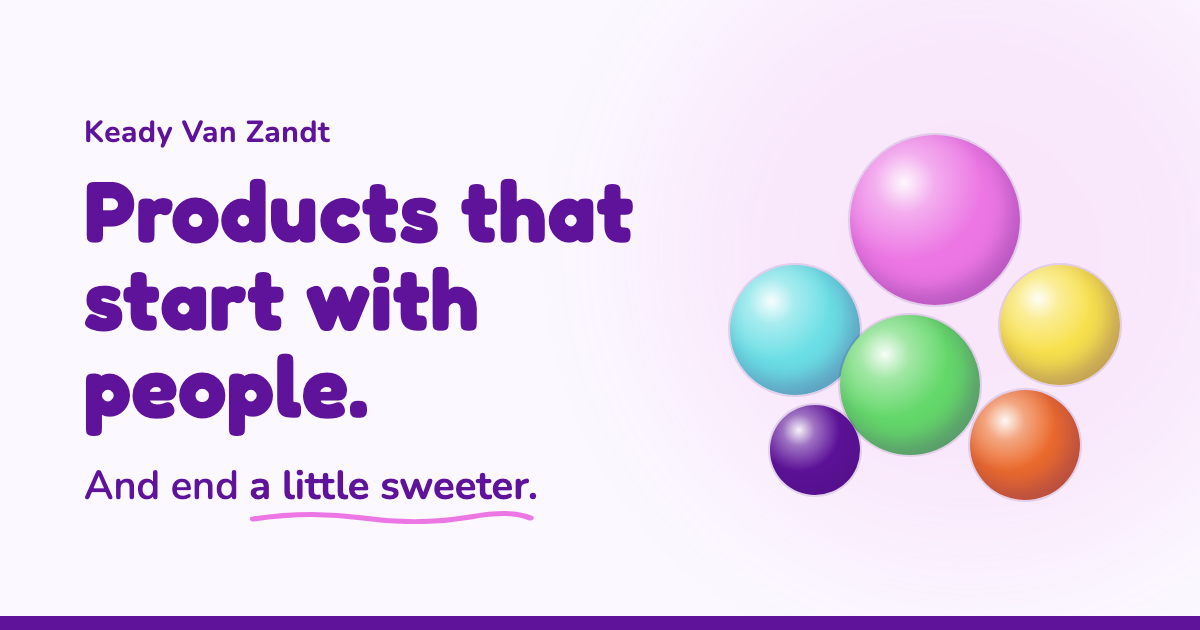
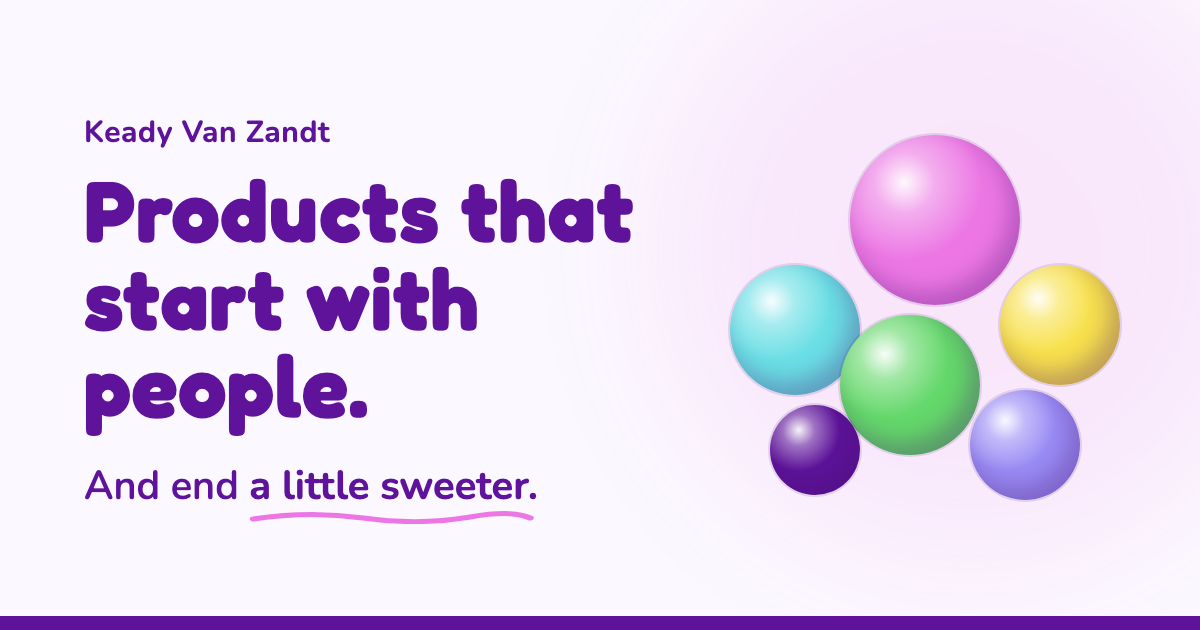
Replace orange with periwinkle
Product category, machine gumballs, contact photo ring and share
image now use periwinkle (#9A8CF5) instead of tangerine.

Changed region(s): [[0.8017, 0.6032, 0.925, 0.8143]]

diff --git a/index.html b/index.html
@@ -78,7 +78,7 @@
         <h1 id="hero-title" data-split>Hi, I'm Keady.</h1>
         <p class="tagline" data-reveal style="--d: 550ms">Products that start with people.<br>And end <em>a little sweeter.</em></p>
         <ul class="roles" data-reveal style="--d: 700ms" aria-label="What I do">
-          <li data-color="tangerine">Product</li>
+          <li data-color="periwinkle">Product</li>
           <li data-color="spring-green">UX research</li>
           <li data-color="orchid">Project management</li>
           <li data-color="lemon">Customer success</li>
@@ -137,7 +137,7 @@
       <!-- data-filter must match the words in each card's data-flavors -->
       <div class="chips" id="flavor-chips" role="group" aria-labelledby="flavor-label">
         <button class="chip" type="button" data-filter="all" aria-pressed="true">All</button>
-        <button class="chip" type="button" data-filter="product" data-color="tangerine" aria-pressed="false">Product</button>
+        <button class="chip" type="button" data-filter="product" data-color="periwinkle" aria-pressed="false">Product</button>
         <button class="chip" type="button" data-filter="design" data-color="aqua" aria-pressed="false">UX Design</button>
         <button class="chip" type="button" data-filter="research" data-color="spring-green" aria-pressed="false">UX Research</button>
         <button class="chip" type="button" data-filter="pm" data-color="orchid" aria-pressed="false">Project Mgmt</button>
@@ -154,7 +154,7 @@
           <!--
             CARD TEMPLATE
             data-color   = the gumball color of the card's PRIMARY category:
-                           product = tangerine, design = aqua, research = spring-green,
+                           product = periwinkle, design = aqua, research = spring-green,
                            pm = orchid, cs (customer success) = lemon
             data-flavors = every filter that shows this card, primary first, separated by spaces
             .card-tags   = the same categories as visible labels (one <li> per category)
@@ -177,14 +177,14 @@
             <a class="card-link" href="case-partner-platform.html" data-bubble>Read case study<span class="sr-only">: Partner Platform Rollout</span> <span class="arrow" aria-hidden="true">→</span></a>
           </article>
 
-          <article class="card" data-color="tangerine" data-flavors="product">
+          <article class="card" data-color="periwinkle" data-flavors="product">
             <div class="card-head">
               <span class="card-ball" aria-hidden="true"></span>
               <div>
                 <h3 class="card-title">CRM to Power BI Pipeline</h3>
                 <p class="card-year">2026 <span class="status-badge" data-status="draft">In progress</span></p>
                 <ul class="card-tags" aria-label="Categories">
-                  <li data-color="tangerine">Product</li>
+                  <li data-color="periwinkle">Product</li>
                 </ul>
               </div>
             </div>

diff --git a/css/styles.css b/css/styles.css
@@ -27,7 +27,7 @@
   --lemon:          #F8E14D;   /* gumball accent (decorative only) */
   --aqua:           #6BDFE5;   /* gumball accent (decorative only) */
   --spring-green:   #64D86A;   /* gumball accent (decorative only) */
-  --tangerine:      #EC6B2D;   /* gumball accent (decorative only) */
+  --periwinkle:     #9A8CF5;   /* gumball accent (decorative only) */
   --lavender-white: #FBF8FF;   /* page background */
   --lilac:          #F1E7FA;   /* cards and tag pills */
   --white:          #FFFFFF;   /* button text, gloss highlights, coin slot */
@@ -53,7 +53,7 @@
   --glass: var(--white);
 
   /* Project categories: each gets its own gumball color */
-  --cat-product: var(--tangerine);
+  --cat-product: var(--periwinkle);
   --cat-design: var(--aqua);
   --cat-research: var(--spring-green);
   --cat-pm: var(--orchid);
@@ -85,7 +85,7 @@
 [data-color="lemon"]        { --flavor: var(--lemon); }
 [data-color="aqua"]         { --flavor: var(--aqua); }
 [data-color="spring-green"] { --flavor: var(--spring-green); }
-[data-color="tangerine"]    { --flavor: var(--tangerine); }
+[data-color="periwinkle"]   { --flavor: var(--periwinkle); }
 
 
 /* ---------- Reusable gumball ----------
@@ -920,8 +920,8 @@ input, select, textarea { font-family: var(--font-body); font-size: 1rem; }
   position: absolute;
   inset: -14px;
   border-radius: 50%;
-  /* Two accents for this section: tangerine and lemon */
-  background: conic-gradient(var(--tangerine), var(--lemon), var(--tangerine), var(--lemon), var(--tangerine));
+  /* Two accents for this section: periwinkle and lemon */
+  background: conic-gradient(var(--periwinkle), var(--lemon), var(--periwinkle), var(--lemon), var(--periwinkle));
 }
 .headshot-wrap:hover::before { animation: spin 3s linear infinite; }
 .headshot-wrap::after {

diff --git a/case-partner-platform.html b/case-partner-platform.html
@@ -62,7 +62,7 @@
   </div>
 </header>
 
-<!-- data-color sets this page's gumball color (orchid, aqua, lemon, spring-green, tangerine) -->
+<!-- data-color sets this page's gumball color (orchid, aqua, lemon, spring-green, periwinkle) -->
 <main id="main" class="case" data-color="orchid">
   <div class="container narrow">
 
@@ -133,7 +133,7 @@
     </section>
 
     <nav class="next-project" aria-label="Next project" data-reveal>
-      <a href="case-crm-power-bi.html" data-bubble data-color="tangerine">Next project: CRM to Power BI Pipeline <span class="arrow" aria-hidden="true">→</span></a>
+      <a href="case-crm-power-bi.html" data-bubble data-color="periwinkle">Next project: CRM to Power BI Pipeline <span class="arrow" aria-hidden="true">→</span></a>
     </nav>
 
   </div>

diff --git a/case-crm-power-bi.html b/case-crm-power-bi.html
@@ -62,8 +62,8 @@
   </div>
 </header>
 
-<!-- data-color sets this page's gumball color (orchid, aqua, lemon, spring-green, tangerine) -->
-<main id="main" class="case" data-color="tangerine">
+<!-- data-color sets this page's gumball color (orchid, aqua, lemon, spring-green, periwinkle) -->
+<main id="main" class="case" data-color="periwinkle">
   <div class="container narrow">
 
     <a class="back-link" href="index.html#work" data-reveal="left"><span class="arrow" aria-hidden="true">←</span> All work</a>

diff --git a/js/main.js b/js/main.js
@@ -20,7 +20,7 @@
   var root = document.documentElement;
   var reduceMotion = window.matchMedia("(prefers-reduced-motion: reduce)");
   var canHover = window.matchMedia("(hover: hover)");
-  var COLORS = ["orchid", "aqua", "lemon", "spring-green", "tangerine"];
+  var COLORS = ["orchid", "aqua", "lemon", "spring-green", "periwinkle"];
   var SVG_NS = "http://www.w3.org/2000/svg";
   var arriving = root.classList.contains("is-arriving");
 

diff --git a/case-motivated-avoidance.html b/case-motivated-avoidance.html
@@ -62,7 +62,7 @@
   </div>
 </header>
 
-<!-- data-color sets this page's gumball color (orchid, aqua, lemon, spring-green, tangerine) -->
+<!-- data-color sets this page's gumball color (orchid, aqua, lemon, spring-green, periwinkle) -->
 <main id="main" class="case" data-color="spring-green">
   <div class="container narrow">
 

diff --git a/case-skylight.html b/case-skylight.html
@@ -62,7 +62,7 @@
   </div>
 </header>
 
-<!-- data-color sets this page's gumball color (orchid, aqua, lemon, spring-green, tangerine) -->
+<!-- data-color sets this page's gumball color (orchid, aqua, lemon, spring-green, periwinkle) -->
 <main id="main" class="case" data-color="aqua">
   <div class="container narrow">
 
